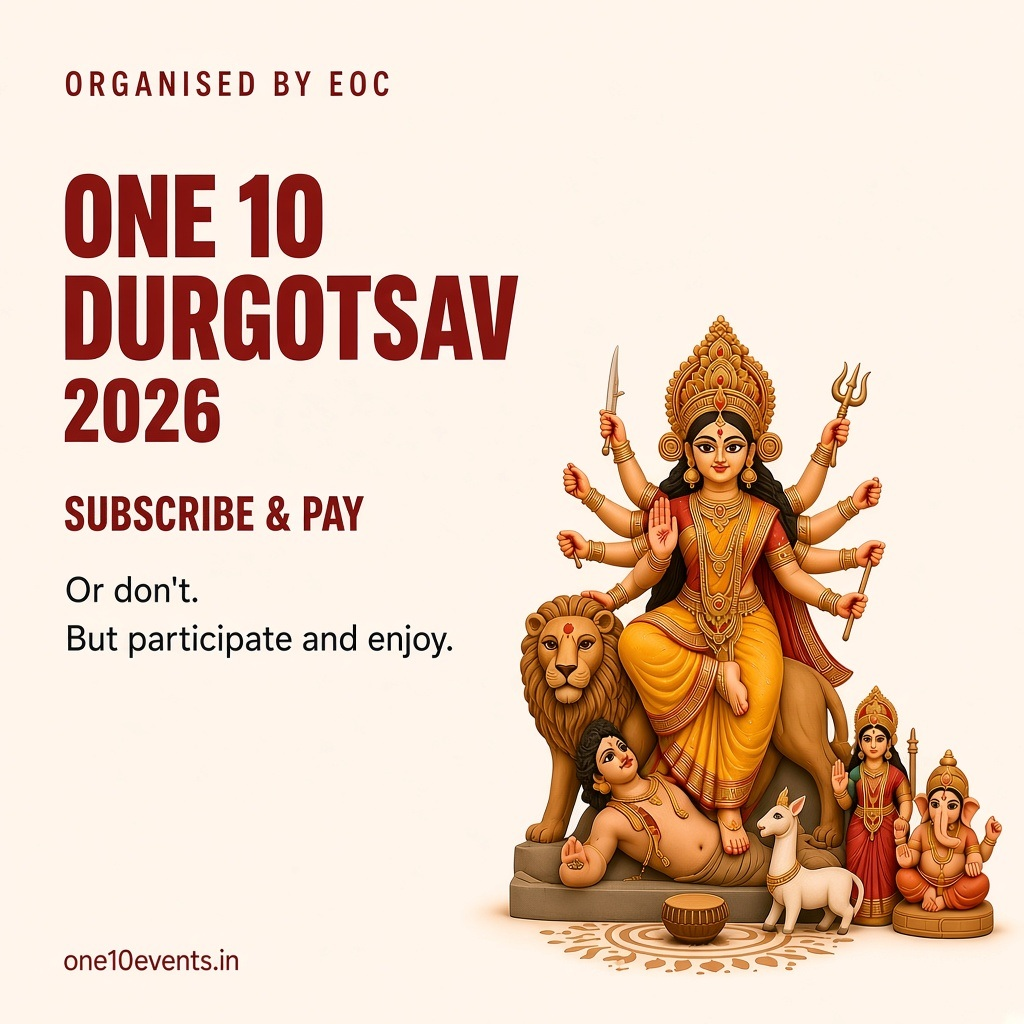
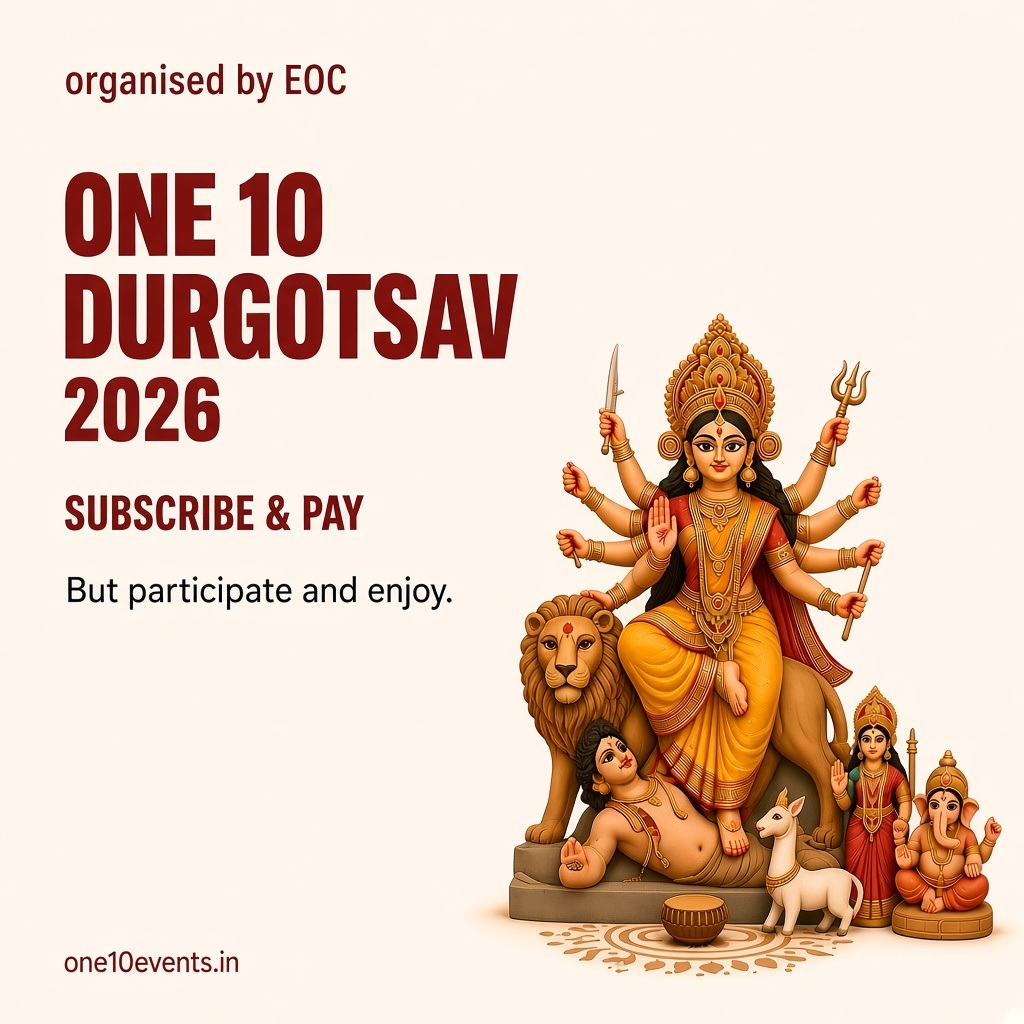
Remove Or don't from invite share copy
Keep only But participate and enjoy on the page and WhatsApp poster.

diff --git a/frontend/src/pages/public/Invite.jsx b/frontend/src/pages/public/Invite.jsx
@@ -38,9 +38,6 @@ export default function Invite() {
           </Link>
 
           <p className="mt-8 text-lg leading-snug text-[#2A1215]/85 sm:text-xl">
-            Or don&apos;t.
-          </p>
-          <p className="mt-2 text-lg leading-snug text-[#2A1215]/85 sm:text-xl">
             But participate and enjoy.
           </p>
         </div>
